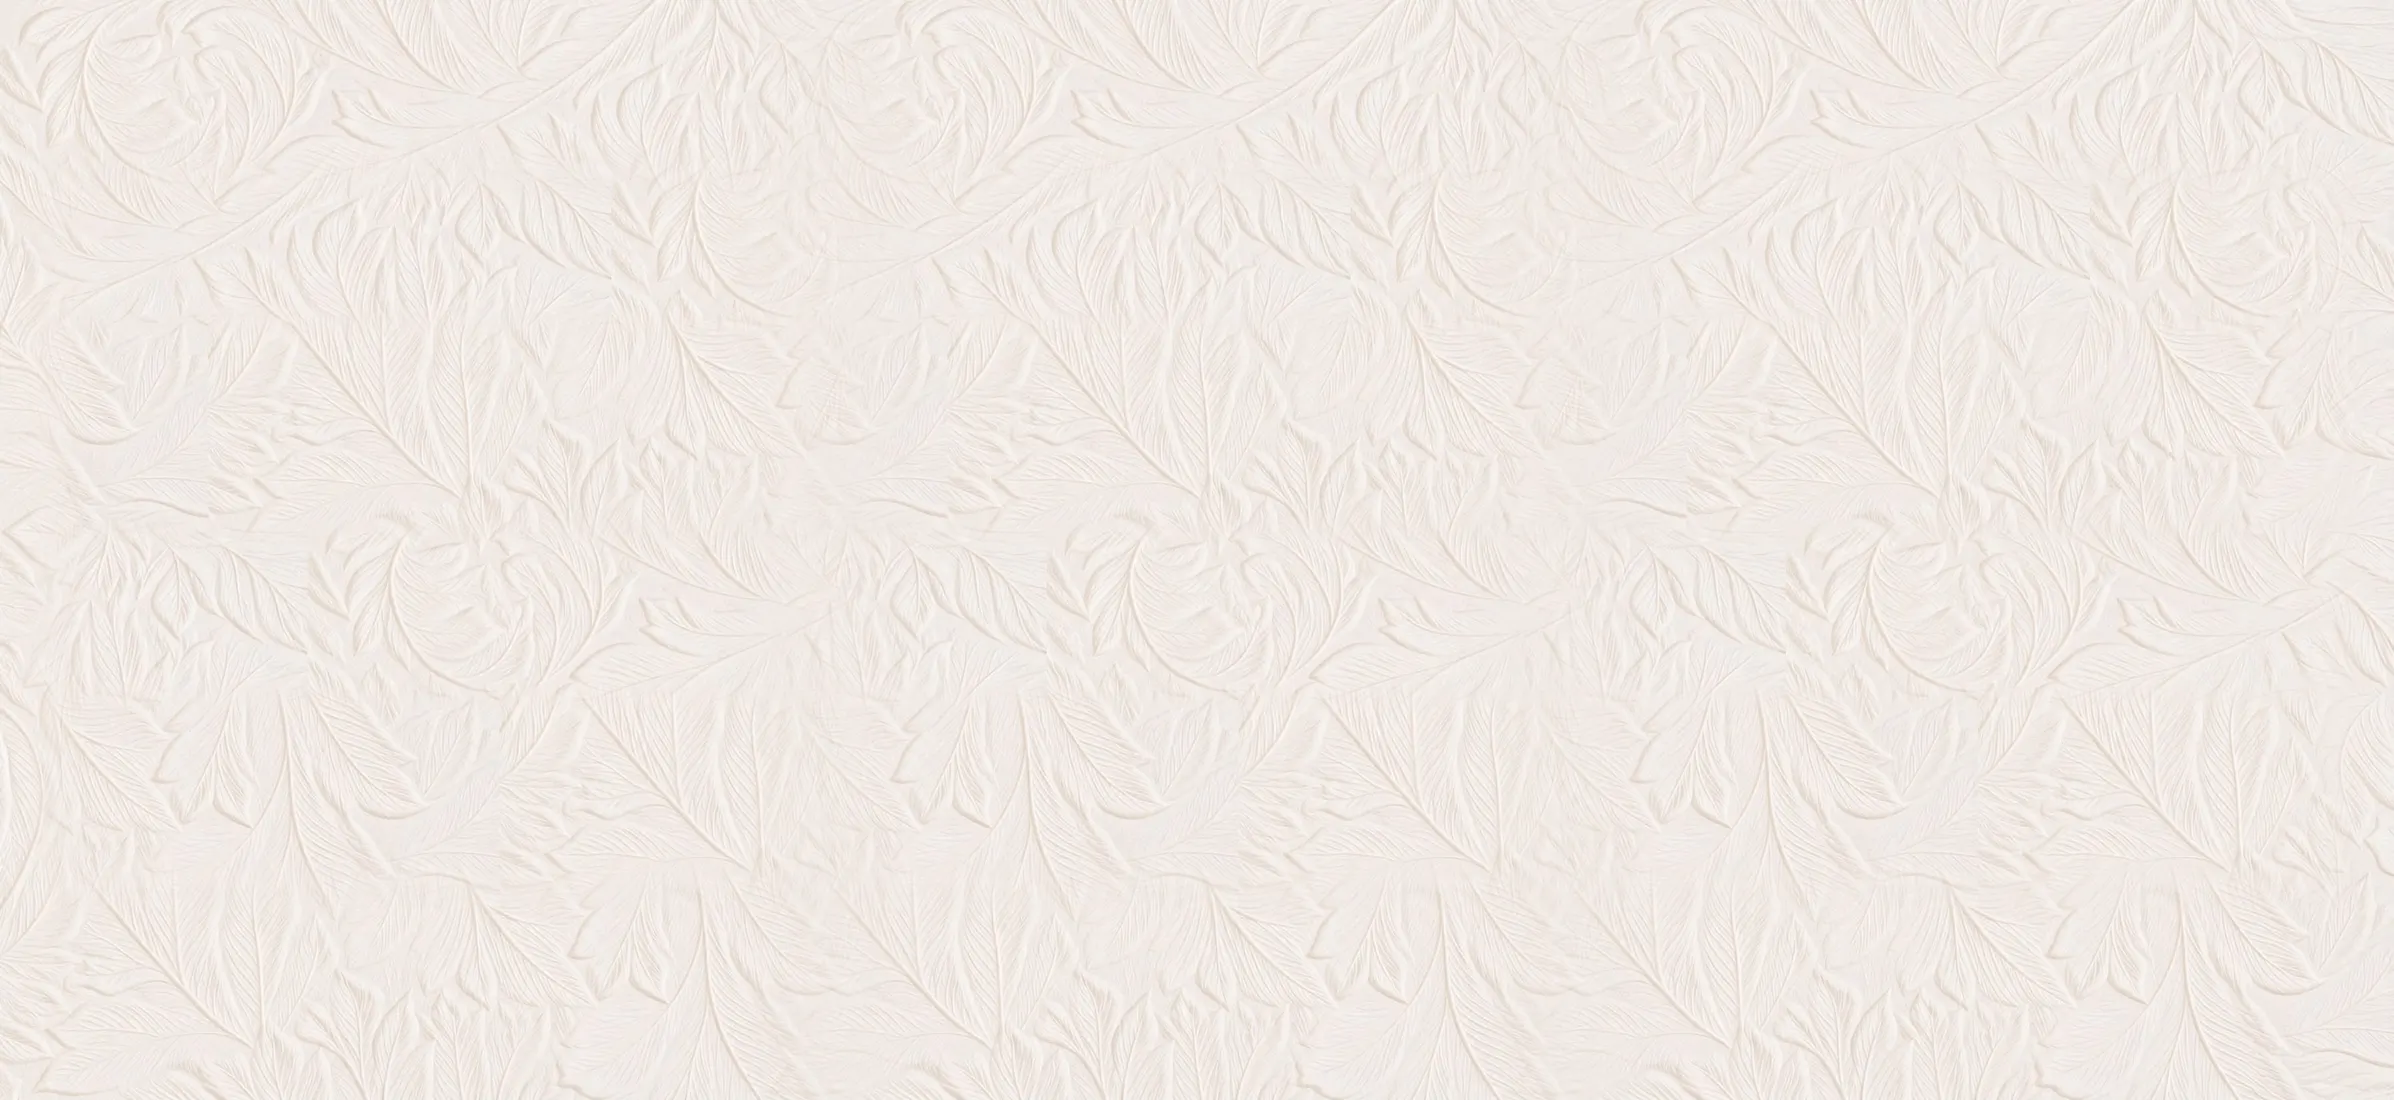
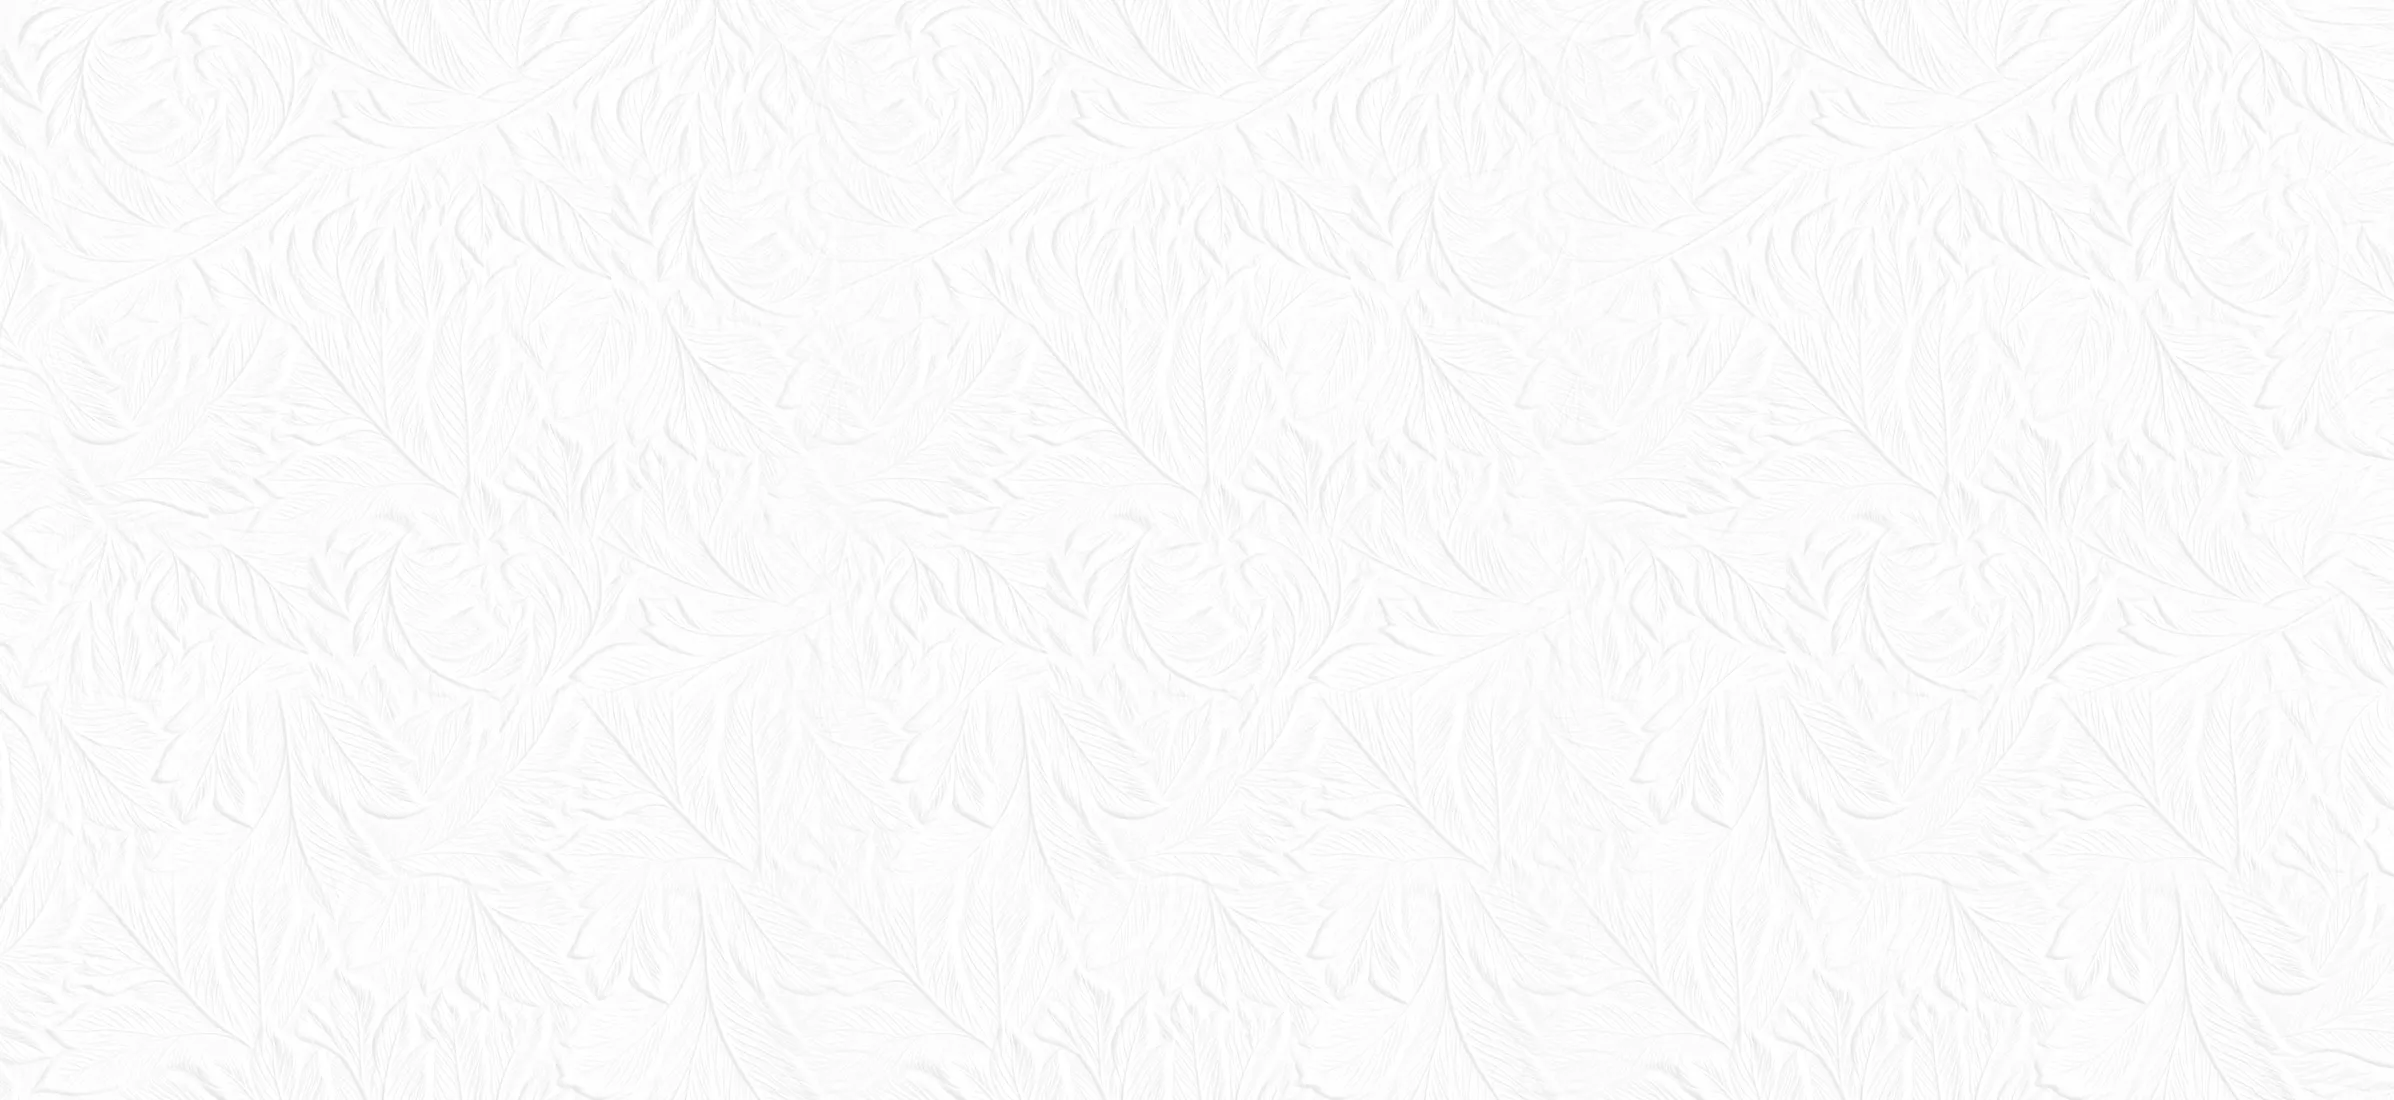
Portada: fondo de hojas en relieve en blanco en vez de beige

Changed region(s): [[0.0, 0.0, 1.0, 1.0]]

diff --git a/src/components/home/Hero.tsx b/src/components/home/Hero.tsx
@@ -11,7 +11,7 @@ import { useUi } from "@/store/ui";
 import logoColor from "../../../public/brand/logo-full-color.webp";
 
 /**
- * Portada como la foto del logo: papel crema con hojas en relieve (public/brand/hero-relieve.webp,
+ * Portada como la foto del logo: papel blanco con hojas en relieve (public/brand/hero-relieve.webp,
  * sacado de la foto original sin el logo) y encima el logo a color con su tapón plateado.
  * Entra con un leve zoom tras el preloader y se aleja suavemente al hacer scroll.
  */
@@ -49,7 +49,7 @@ export function Hero() {
   return (
     <section
       ref={section}
-      className="theme-light relative flex flex-col overflow-hidden bg-[#f1ebe5] pt-(--nav-h) text-bone md:min-h-svh"
+      className="theme-light relative flex flex-col overflow-hidden bg-white pt-(--nav-h) text-bone md:min-h-svh"
     >
       <Image src="/brand/hero-relieve.webp" alt="" fill priority sizes="100vw" className="object-cover" />
 
